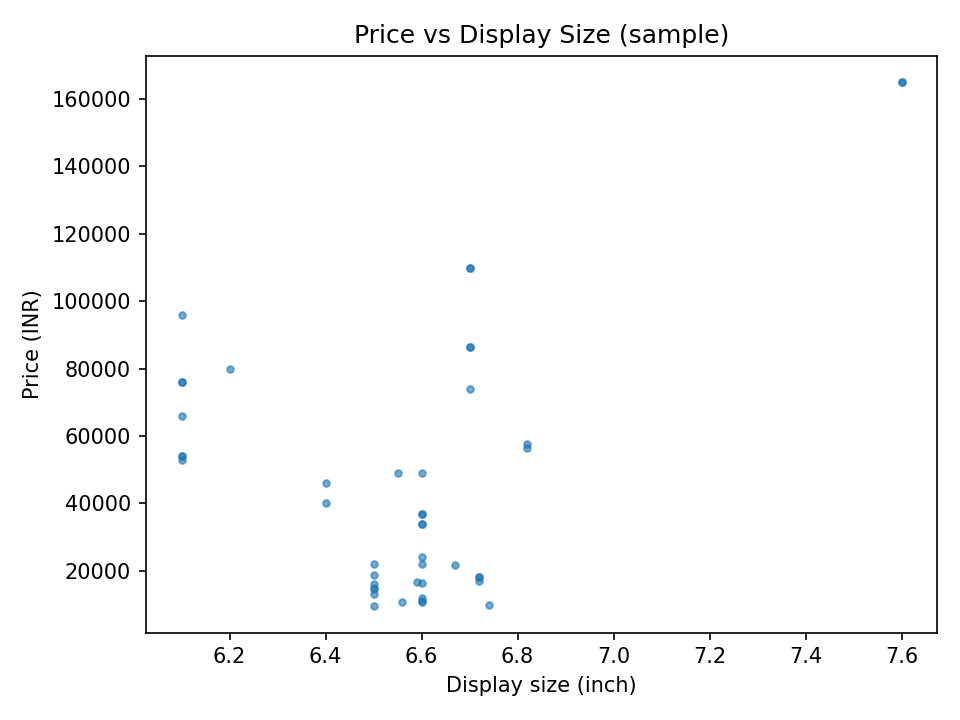
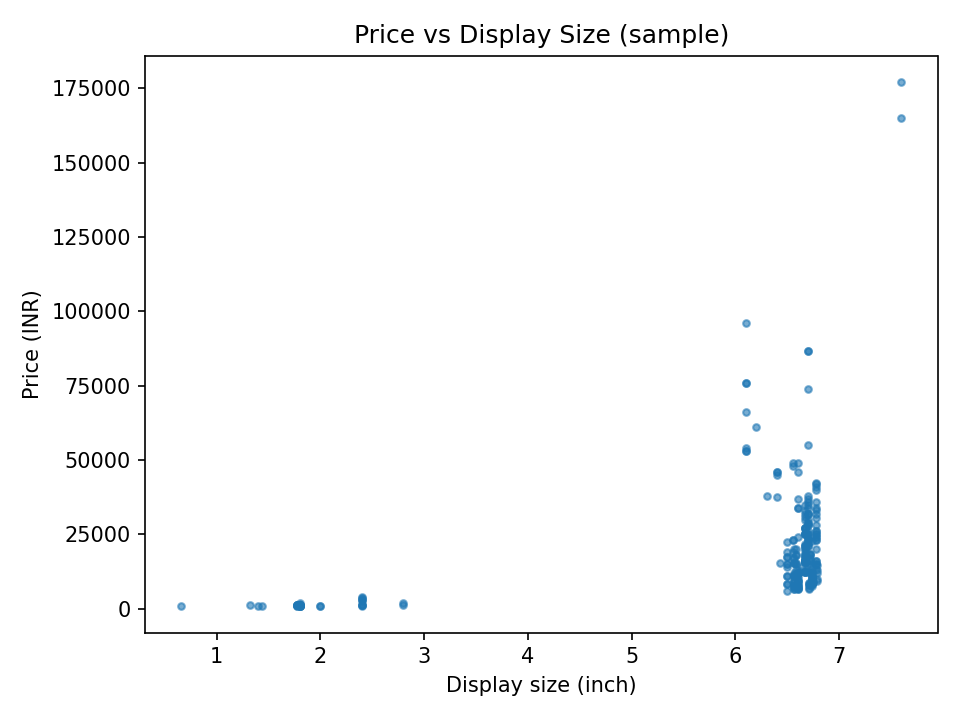
Fix Windows fallback (add shutil), Simplify Ratings

diff --git a/reports/EDA_SUMMARY.md b/reports/EDA_SUMMARY.md
@@ -1,5 +1,5 @@
 # EDA Summary
-- Rows: **187**  |  Columns: **18**
+- Rows: **979**  |  Columns: **18**
 - Output tables: `reports\tables`
 - Output images: `reports\img`
 
